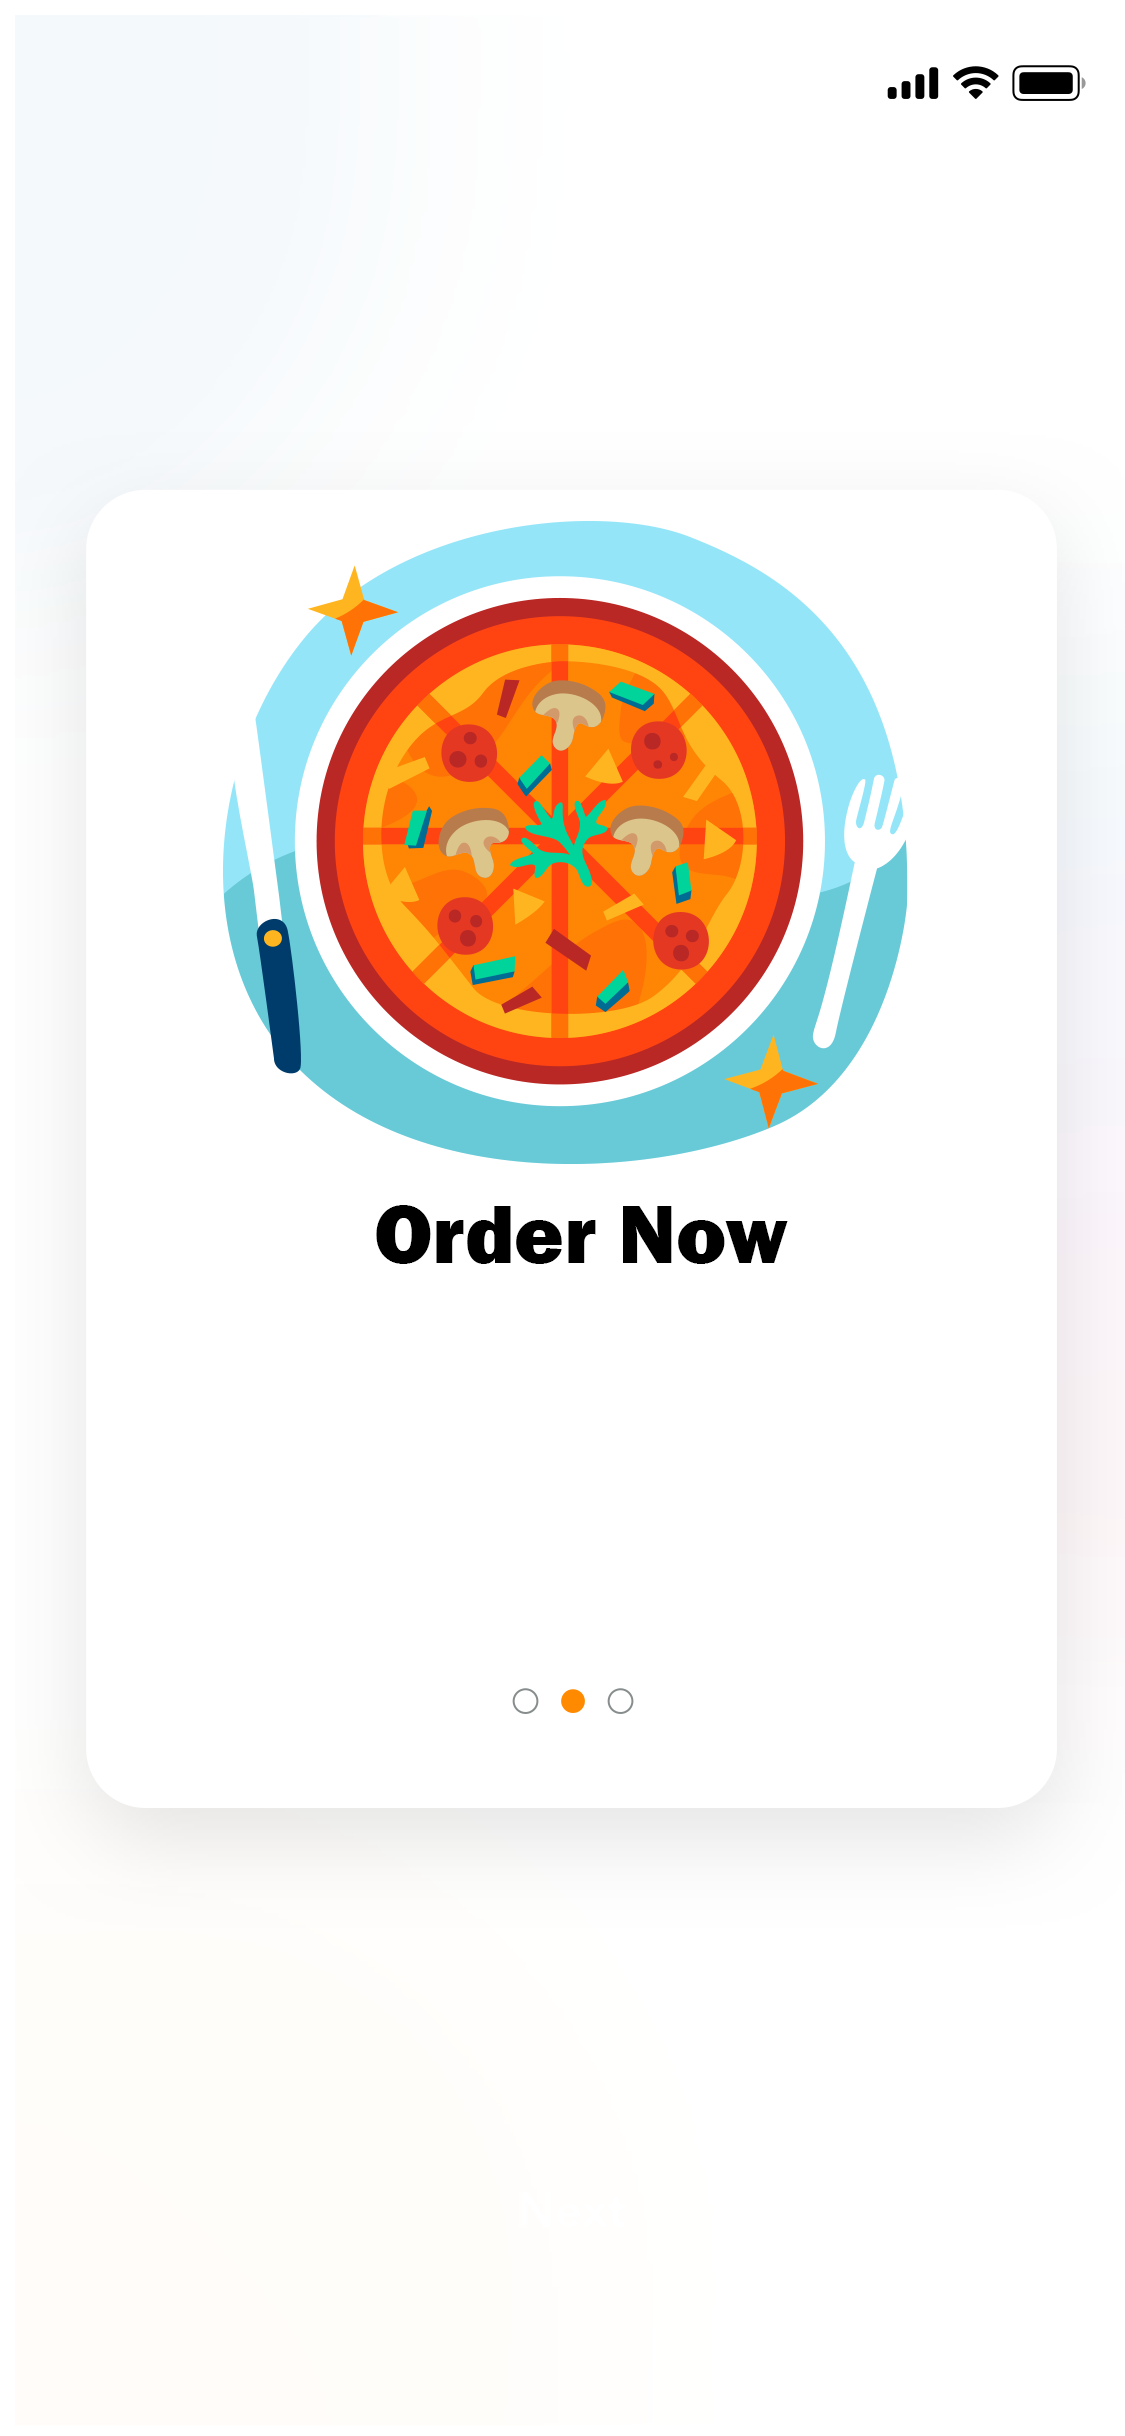
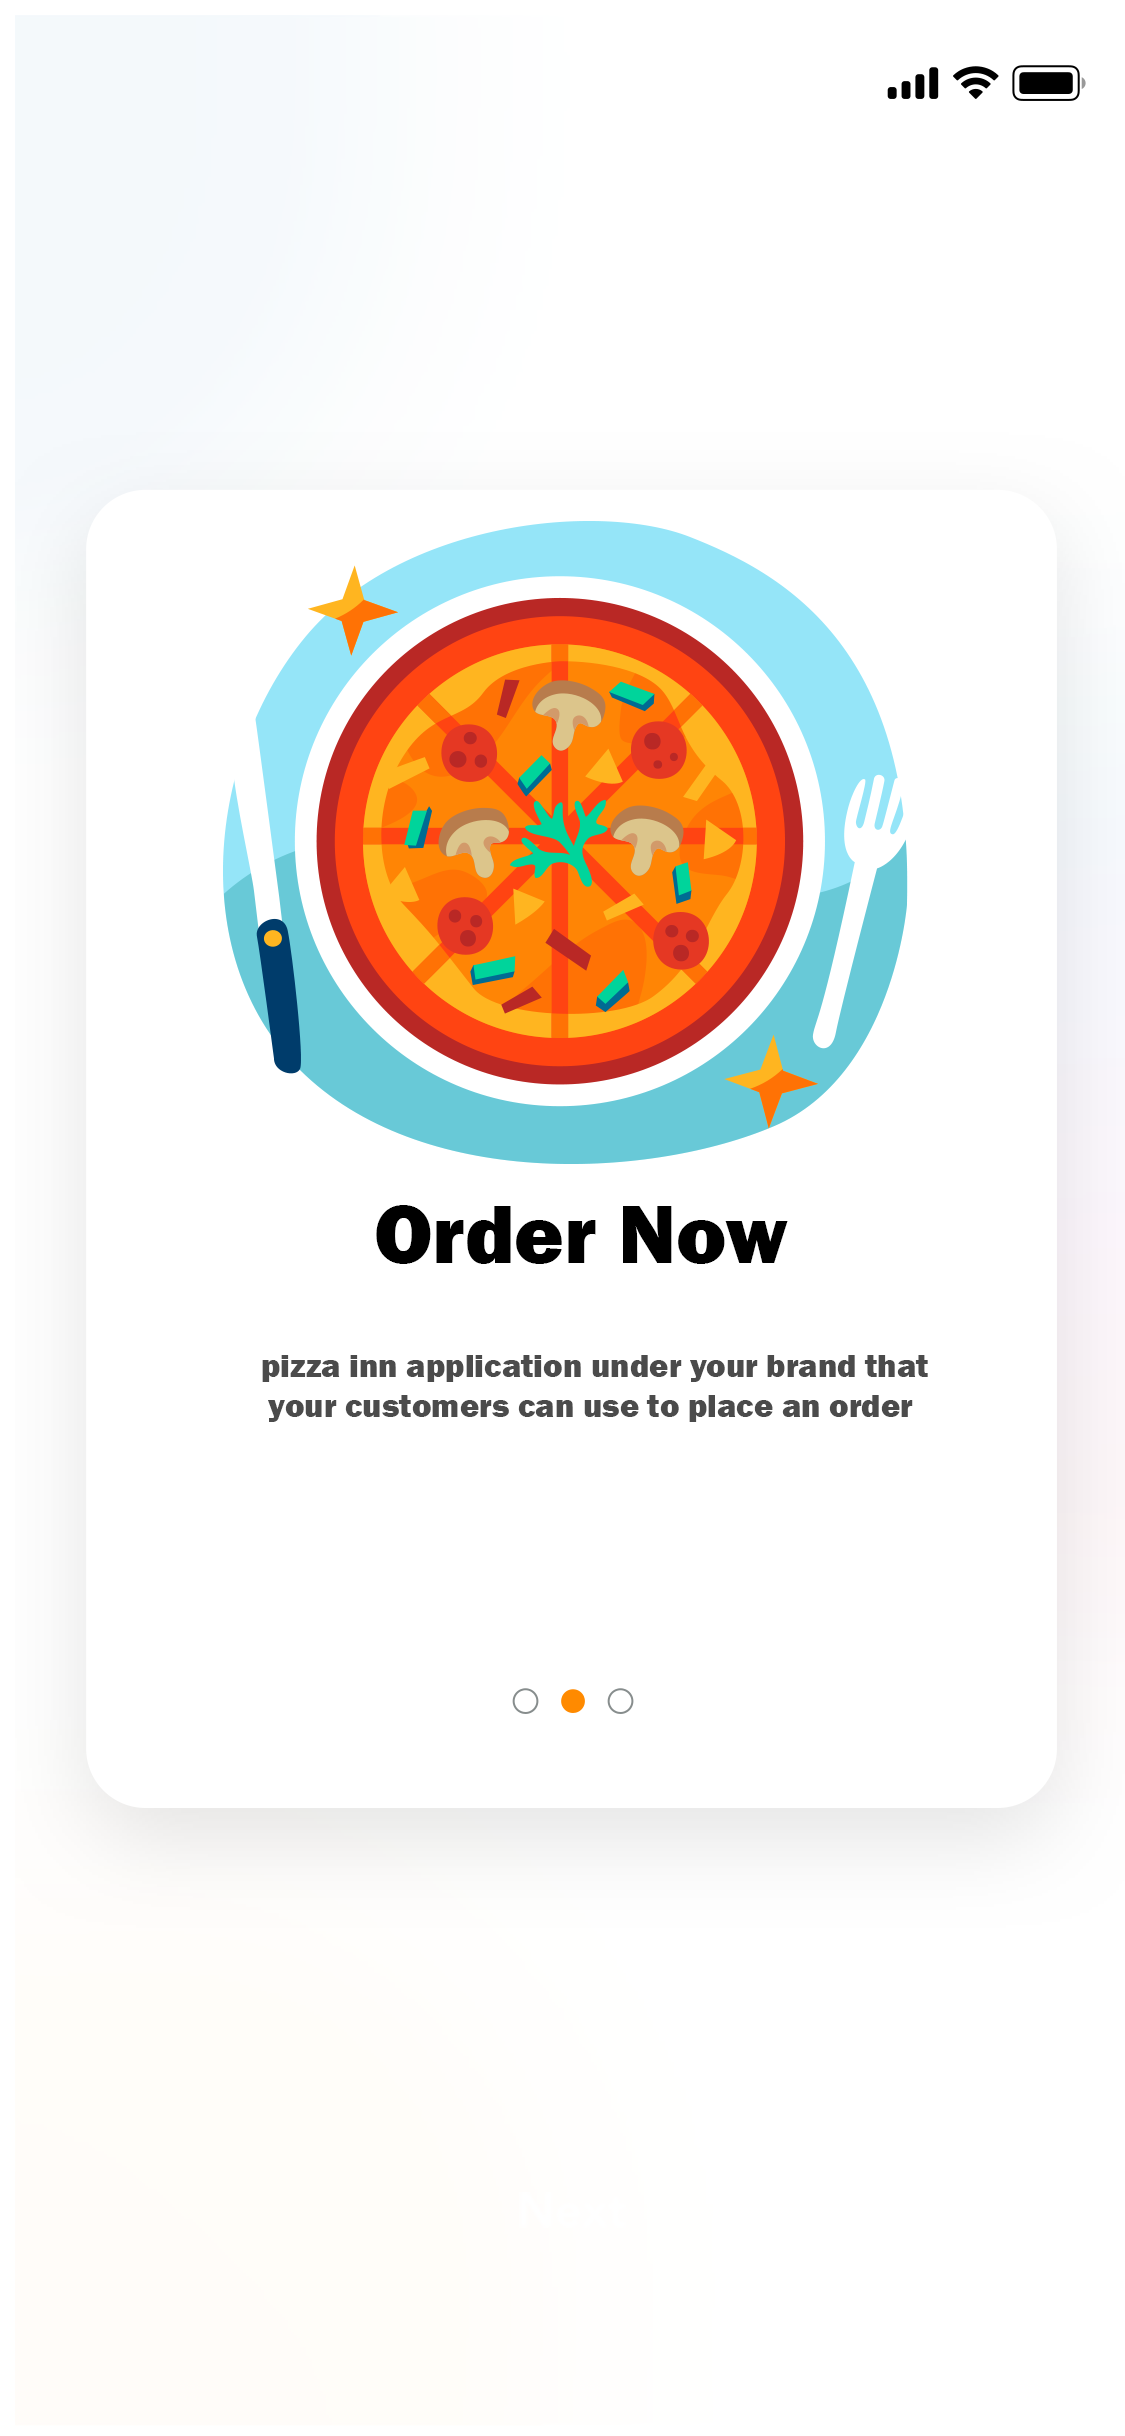
Create GetStart Pages and navigation between them

Changed region(s): [[0.2178, 0.5616, 0.8089, 0.5928]]

diff --git a/Food_proj/components/Login.js b/Food_proj/components/Login.js
@@ -8,10 +8,11 @@ export default function Login({ navigation }) {
 
 
     const { height } = useWindowDimensions();
+    const image =require("../assets/Signinwithoutbutton.png");
     return (
         <View style={styles.container}>
-            <ImageBackground resizeMode="cover" style={[styles.Background, { height: height * 0.35 }]}>
-                <Text>description</Text>
+            <ImageBackground source={image} style={[styles.Background, { height: height * 0.35 }]}>
+                
             </ImageBackground>
             <View style={styles.loginView}>
                 <View style={styles.inputView}>
@@ -38,6 +39,9 @@ export default function Login({ navigation }) {
                         <Text style={[styles.loginText, { color: "#4040fdaa" }]}>forgotten password</Text>
                     </TouchableOpacity>
                 </View>
+
+
+                
                 <View style={styles.BtnView}>
                     <TouchableOpacity style={styles.loginBtn}  >
                         <Text style={styles.loginText}>Login</Text>
@@ -57,6 +61,7 @@ const styles = StyleSheet.create({
         alignItems: 'center',
     },
     Background: {
+        
         justifyContent: 'flex-end',
         width: '100%',
     },

diff --git a/Food_proj/components/GetStart3.js b/Food_proj/components/GetStart3.js
@@ -1,0 +1,51 @@
+import { StyleSheet, Text, View, TextInput, ImageBackground, TouchableOpacity, useWindowDimensions } from 'react-native';
+import React from 'react'
+
+
+const GetStart3 = ({ navigation }) => {
+    const image =require("../assets/GetStart3.png");
+    const imagee =require("../assets/buttons/GetStartBTN.png");
+    return (
+      <View style={styles.container}>
+      <ImageBackground source={image} style={styles.Background}> 
+      <TouchableOpacity  onPress={() => navigation.push('Login')} >
+    <ImageBackground source={imagee} style={styles.btn}> 
+     
+      </ImageBackground>
+   
+   </TouchableOpacity>
+    </ImageBackground>
+  
+     
+  
+     </View>
+  
+    )
+}
+
+const styles = StyleSheet.create({
+    container: {
+        flex: 1,
+        alignItems: 'center',
+    },
+    Background: {
+        
+       // justifyContent: 'flex-end',
+        width: '100%',
+        height: '100%',
+  
+    },
+    btn: {
+      width : "80%",
+    // backgroundColor:Colors.primary ,
+      height:40,
+      justifyContent:"flex-end",
+      alignItems:"flex-end",
+      marginLeft: 90,
+      marginVertical: 650,
+      borderRadius :55 ,
+  },
+  
+  });
+
+export default GetStart3

diff --git a/Food_proj/components/GetStart2.js b/Food_proj/components/GetStart2.js
@@ -1,0 +1,53 @@
+import { StyleSheet, Text, View, TextInput, ImageBackground, TouchableOpacity, useWindowDimensions } from 'react-native';
+import React from 'react'
+
+
+const GetStart2 = ({ navigation }) => {
+  const image =require("../assets/GetStart2.png");
+  const imagee =require("../assets/buttons/GetStartBTN.png");
+  return (
+    <View style={styles.container}>
+    <ImageBackground source={image} style={styles.Background}> 
+    <TouchableOpacity  onPress={() => navigation.push('GetStart3')} >
+    <ImageBackground source={imagee} style={styles.btn}> 
+     
+      </ImageBackground>
+   
+   </TouchableOpacity>
+   
+    </ImageBackground>
+
+   
+
+   </View>
+
+  )
+}
+
+const styles = StyleSheet.create({
+  container: {
+      flex: 1,
+      alignItems: 'center',
+  },
+  Background: {
+      
+     // justifyContent: 'flex-end',
+      width: '100%',
+      height: '100%',
+
+  },
+  btn: {
+    width : "80%",
+  // backgroundColor:Colors.primary ,
+    height:40,
+    justifyContent:"flex-end",
+    alignItems:"flex-end",
+    marginLeft: 90,
+    marginVertical: 650,
+    borderRadius :55 ,
+},
+
+
+});
+
+export default GetStart2

diff --git a/Food_proj/components/GetStart.js b/Food_proj/components/GetStart.js
@@ -1,0 +1,54 @@
+import { StyleSheet, Text, View, TextInput, ImageBackground, TouchableOpacity, useWindowDimensions } from 'react-native';
+import React from 'react'
+const GetStart = ({ navigation }) => {
+
+  const image = require("../assets/GetStart.png");
+  const imagee =require("../assets/buttons/GetStartBTN.png");
+
+
+  return (
+    <View style={styles.container}>
+      <ImageBackground  source={image} style={styles.Background}>
+
+      <TouchableOpacity  onPress={() => navigation.push('GetStart2')} >
+    <ImageBackground source={imagee} style={styles.btn}> 
+     
+      </ImageBackground>
+   
+   </TouchableOpacity>
+   
+      </ImageBackground>
+        
+
+    </View>
+
+
+
+  );
+}
+
+export default GetStart
+
+const styles = StyleSheet.create({
+  container: {
+    flex: 1,
+    alignItems: 'center',
+  },
+  Background: {
+
+    width: '100%',
+    height: '100%',
+
+  },
+  btn: {
+    width : "80%",
+  // backgroundColor:Colors.primary ,
+    height:40,
+    justifyContent:"flex-end",
+    alignItems:"flex-end",
+    marginLeft: 90,
+    marginVertical: 650,
+    borderRadius :55 ,
+},
+
+});

diff --git a/Food_proj/Navigations/Index.js b/Food_proj/Navigations/Index.js
@@ -1,0 +1,37 @@
+import { StatusBar } from 'expo-status-bar';
+import { StyleSheet, Text, View , SafeAreaView} from 'react-native';
+import React from 'react';
+import { NavigationContainer } from '@react-navigation/native';
+import { createNativeStackNavigator } from '@react-navigation/native-stack';
+import Login from '../components/Login';
+import GetStart from '../components/GetStart';
+import GetStart2 from '../components/GetStart2';
+import GetStart3 from '../components/GetStart3';
+
+const Stack = createNativeStackNavigator();
+
+
+const Index = () => {
+  return (
+    <NavigationContainer>
+        <SafeAreaView style={styles.root}>
+
+     <Stack.Navigator >
+      <Stack.Screen name="GetStart" component={GetStart} />
+      <Stack.Screen name="GetStart2" component={GetStart2} />
+      <Stack.Screen name="GetStart3" component={GetStart3} />
+      <Stack.Screen name="Login" component={Login} />
+    </Stack.Navigator>
+    </SafeAreaView>
+  </NavigationContainer>
+  )
+}
+const styles = StyleSheet.create({
+    root: {
+        flex: 1,
+    },
+  
+  
+  });
+
+export default Index

diff --git a/Food_proj/App.js b/Food_proj/App.js
@@ -1,19 +1,13 @@
 import { StatusBar } from 'expo-status-bar';
 import { StyleSheet, Text, View } from 'react-native';
 import React from 'react';
-import { NavigationContainer } from '@react-navigation/native';
-import { createNativeStackNavigator } from '@react-navigation/native-stack';
-
 import Login from './components/Login';
+import GetStart from './components/GetStart';
+import GetStart2 from './components/GetStart2';
+import GetStart3 from "./components/GetStart3";
+import Index from './Navigations/Index' ;
 
-const Stack = createNativeStackNavigator();
 
 export default function App() {
-  return (
-    <NavigationContainer>
-      <Stack.Navigator>
-        <Stack.Screen name="Login" component={Login} />
-      </Stack.Navigator>
-    </NavigationContainer>
-  );
+  return( <Index />);
 }
